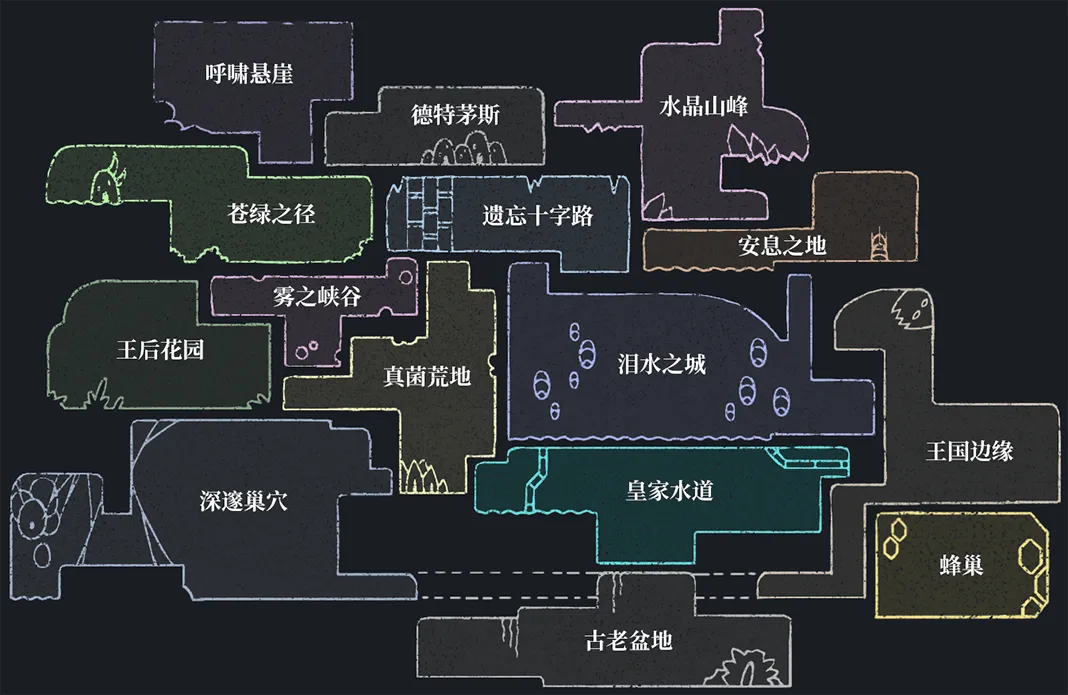
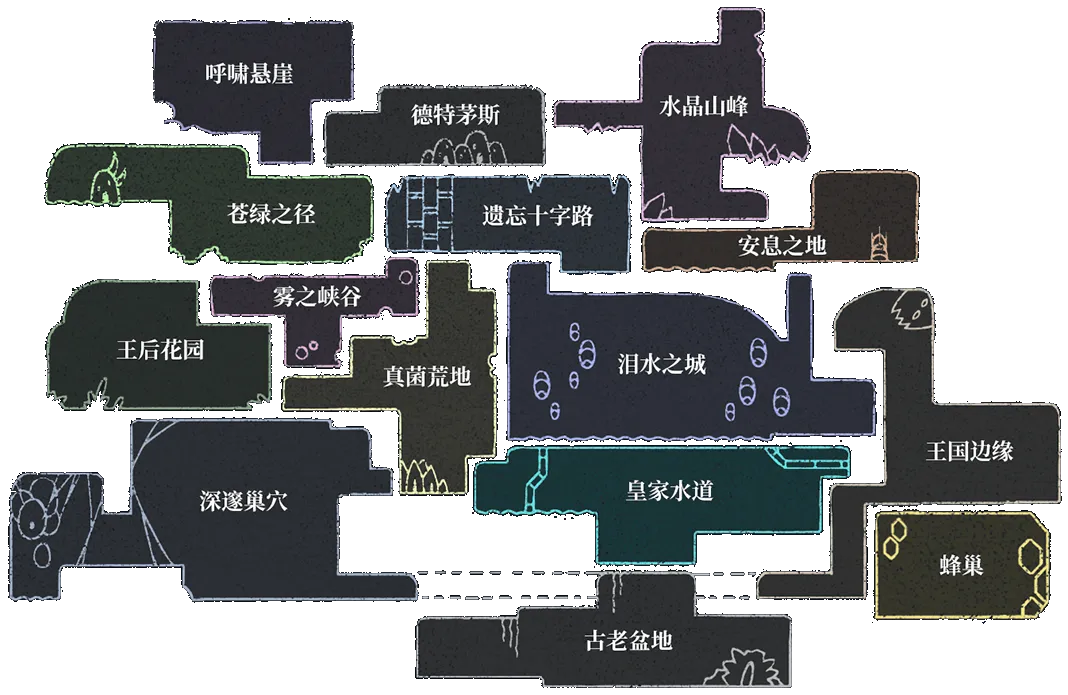
把地图图片换成透明底

diff --git a/src/views/StoryView.vue b/src/views/StoryView.vue
@@ -55,7 +55,7 @@ const worldviewSlides = [
 .story-view-root {
   width: 100%;
   min-height: 100vh;
-  padding-top: 100px;
+  padding-top: 0px;
   display: flex;
   flex-direction: column;
   align-items: center;
@@ -64,10 +64,10 @@ const worldviewSlides = [
 }
 
 .story-content {
-  margin-top: 220px;
+  margin-top: 0px;
   padding: 2.5rem 1.5rem 3.5rem;
   width: 100%;
-  max-width: 1100px;
+  max-width: 100px;
   display: flex;
   justify-content: center;
   align-items: center;
@@ -75,8 +75,10 @@ const worldviewSlides = [
 
 @media (max-width: 768px) {
   .story-content {
-    margin-top: 210px;
+    margin-top: 0px;
     padding-inline: 1rem;
+    max-width: 100%;
+
   }
 }
 </style>

diff --git a/src/views/MapView.vue b/src/views/MapView.vue
@@ -120,7 +120,7 @@ const mapImageUrl = new URL('@/assets/map_image/hollow-knight-full-map.png', imp
 .map-view-root {
   width: 100%;
   min-height: 100vh;
-  padding-top: 100px;
+  padding-top: 0px;
   display: flex;
   flex-direction: column;
   align-items: center;
@@ -128,7 +128,7 @@ const mapImageUrl = new URL('@/assets/map_image/hollow-knight-full-map.png', imp
 }
 
 .map-main-wrapper {
-  margin-top: 194px; /* “地图”标题和大地图之间留出适中的距离 */
+  margin-top: 19px; /* “地图”标题和大地图之间留出适中的距离 */
   flex: 1;
   width: 100%;
   display: flex;
